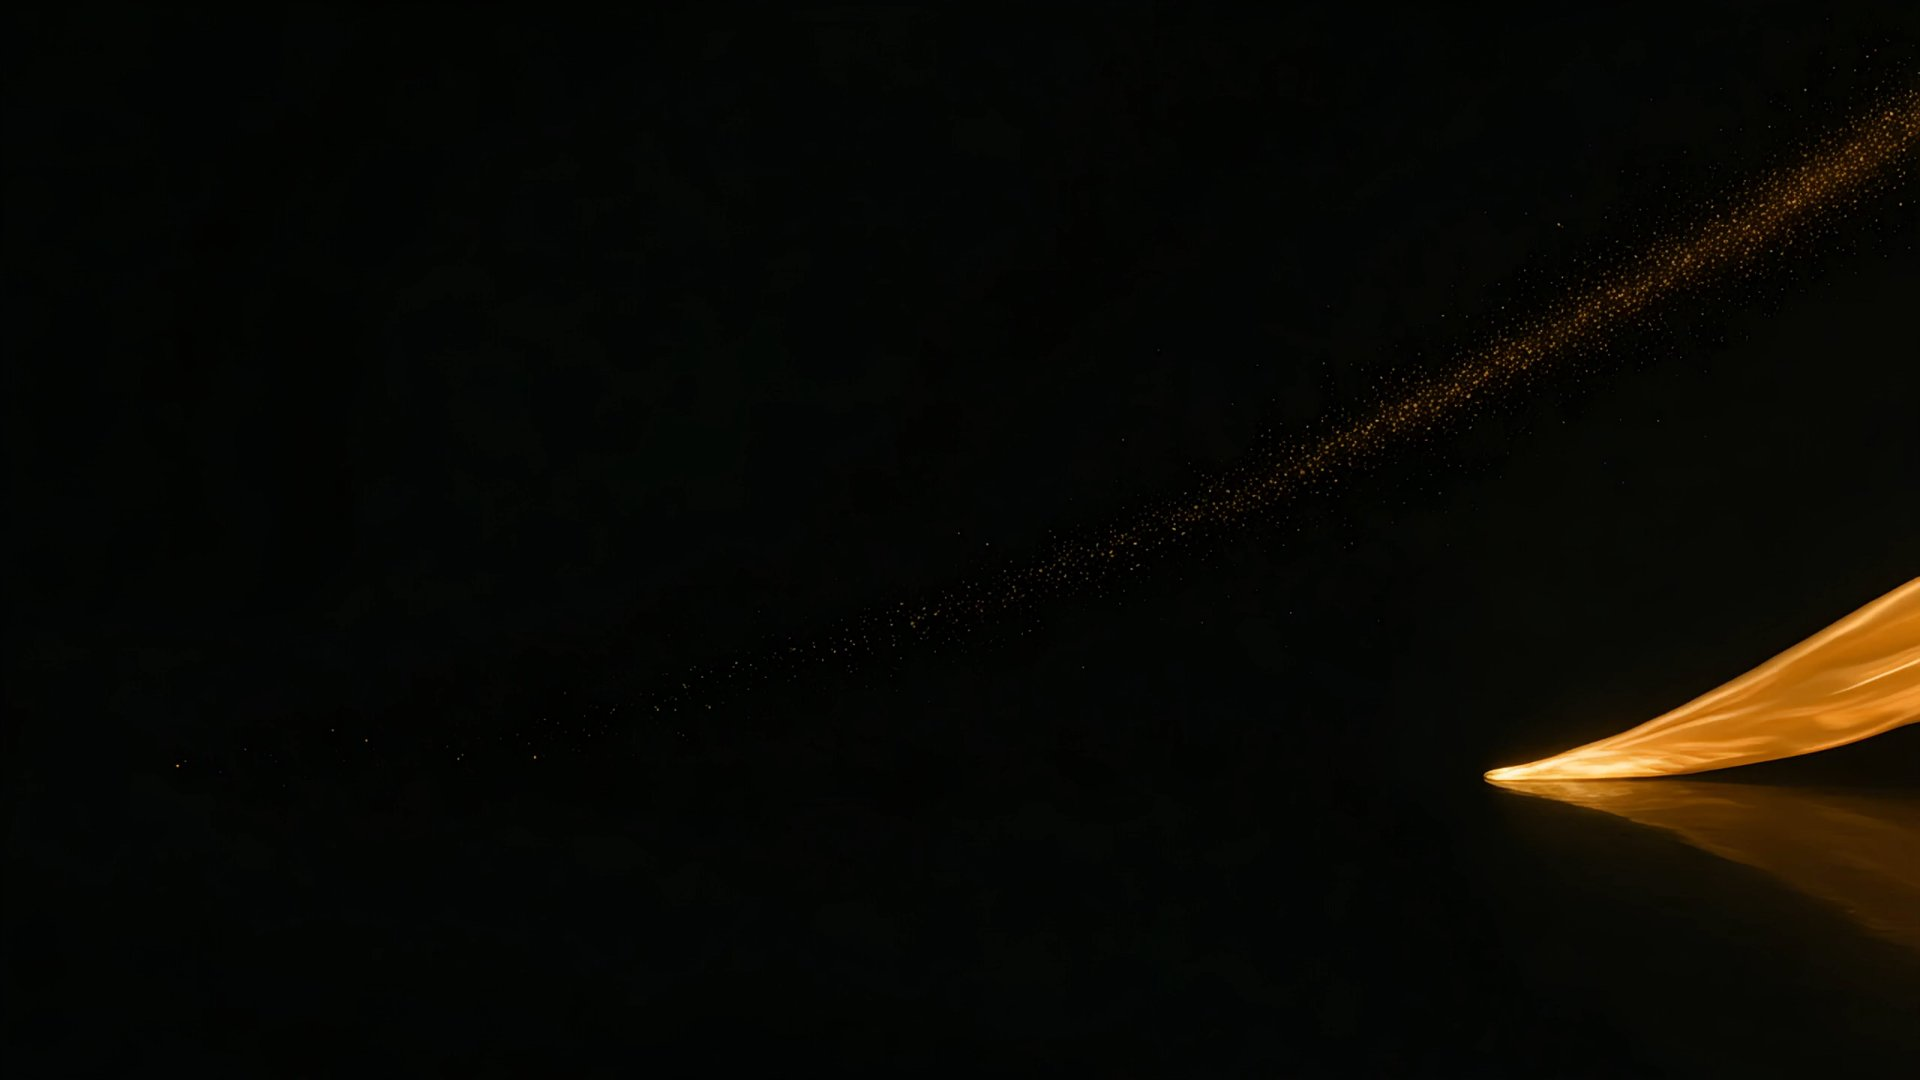
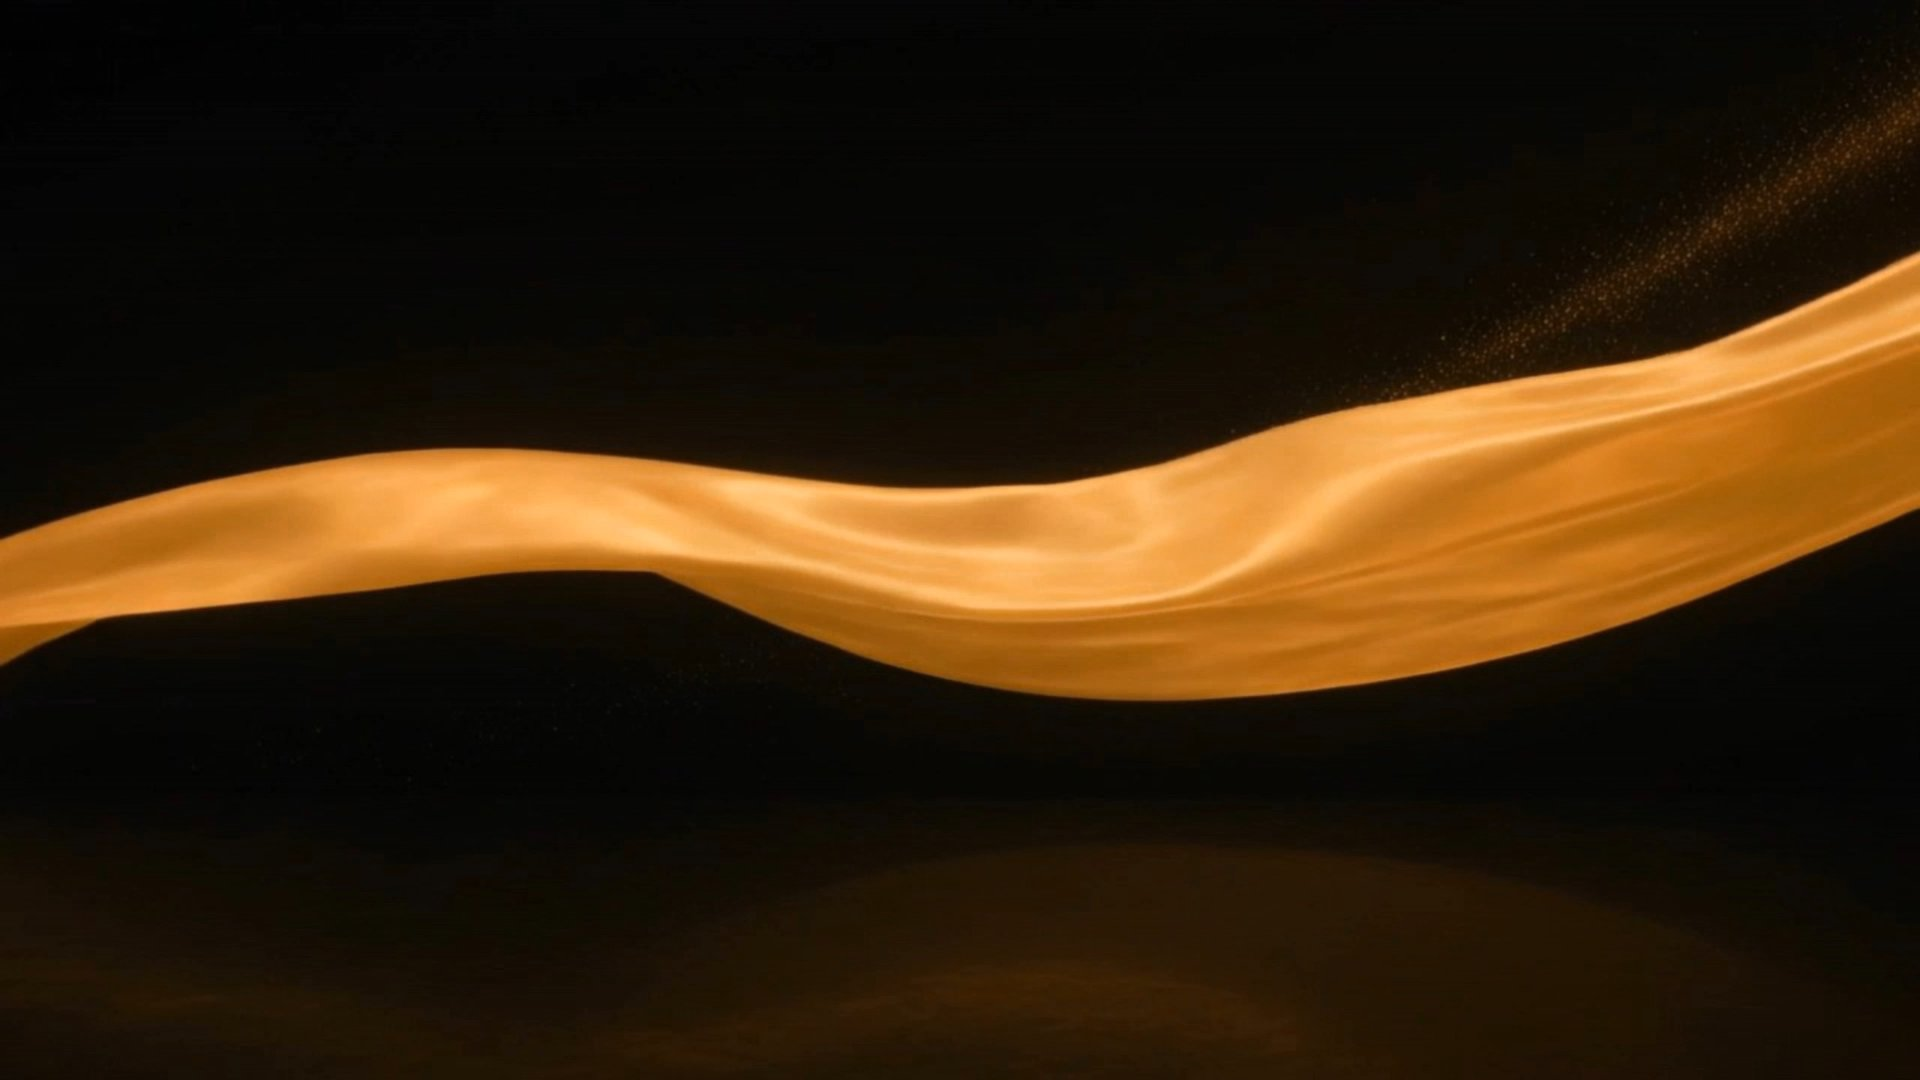
polish(landing): single seamless hero loop, no visible transition (#599)
The intro→loop crossfade was the source of the shimmer: two clips with
divergent motion overlapping for ~1s read as ghosting. Since the loop was
already built with matched start/end frames (Kling start_image =
end_image), its wrap point is invisible on its own — verified ~0.86/255
mean pixel diff between first and last frame. So drop the intro film and
the crossfade entirely and run the single seamless loop: it undulates
full-width forever with no handoff to see. Poster is now the loop's own
frame 0 so first paint matches. Removes hero-wave-intro.mp4.

diff --git a/src/app/landing/_components/landing-view.tsx b/src/app/landing/_components/landing-view.tsx
@@ -150,9 +150,7 @@ function HeroProductShot() {
 
 function Hero() {
   const reduced = useReducedMotion();
-  const heroIntroRef = useRef<HTMLVideoElement>(null);
   const heroLoopRef = useRef<HTMLVideoElement>(null);
-  const [heroPhase, setHeroPhase] = useState<"intro" | "loop">("intro");
   const { scrollY } = useScroll();
   const artY = useTransform(scrollY, [0, 720], [0, 130]);
   const fadeOut = useTransform(scrollY, [0, 600], [1, 0.45]);
@@ -168,12 +166,13 @@ function Hero() {
 
   return (
     <section id="top" className="relative overflow-hidden">
-      {/* Higgsfield-generated molten-gold ribbon in two acts, parallaxed
-          behind the headline: the intro film plays once (the ribbon flows in
-          from the top right), then hands off to a loop whose start/end frames
-          match the intro's final frame (Kling start_image = end_image), so
-          the motion never stops and never hard-resets. Reduced motion gets
-          the poster still. */}
+      {/* Higgsfield-generated molten-gold ribbon, parallaxed behind the
+          headline. A single perfectly seamless loop (Kling start_image =
+          end_image — first and last frames are the same pose, verified
+          ~0.9/255 mean pixel diff), so there is no intro/loop handoff to
+          see: it simply undulates forever. The poster is the loop's own
+          frame 0, so first paint matches and there's no jump when playback
+          begins. Reduced motion keeps the poster still. */}
       <motion.div
         className="pointer-events-none absolute inset-0"
         style={reduced ? undefined : { y: artY, opacity: fadeOut }}
@@ -185,46 +184,18 @@ function Hero() {
           className="h-full w-full object-cover"
         />
         {!reduced && (
-          <>
-            {/* The handoff overlaps rather than cuts: ~1s before the intro
-                ends, the loop starts playing underneath and the intro fades
-                out over that same second. Both show near-identical ribbon
-                poses at the boundary, so the exchange reads as one motion. */}
-            <motion.video
-              ref={heroLoopRef}
-              src="/brand/landing/hero-wave-loop.mp4"
-              muted
-              loop
-              playsInline
-              preload="auto"
-              className="absolute inset-0 h-full w-full object-cover"
-              onViewportEnter={() => {
-                if (heroPhase === "loop") void heroLoopRef.current?.play().catch(() => {});
-              }}
-              onViewportLeave={() => {
-                heroLoopRef.current?.pause();
-                heroIntroRef.current?.pause();
-              }}
-            />
-            <video
-              ref={heroIntroRef}
-              src="/brand/landing/hero-wave-intro.mp4"
-              muted
-              playsInline
-              autoPlay
-              preload="auto"
-              className={`absolute inset-0 h-full w-full object-cover transition-opacity duration-[1100ms] ease-in-out ${
-                heroPhase === "intro" ? "opacity-100" : "opacity-0"
-              }`}
-              onTimeUpdate={(e) => {
-                const v = e.currentTarget;
-                if (heroPhase === "intro" && v.duration && v.currentTime > v.duration - 1.1) {
-                  void heroLoopRef.current?.play().catch(() => {});
-                  setHeroPhase("loop");
-                }
-              }}
-            />
-          </>
+          <motion.video
+            ref={heroLoopRef}
+            src="/brand/landing/hero-wave-loop.mp4"
+            muted
+            loop
+            playsInline
+            autoPlay
+            preload="auto"
+            className="absolute inset-0 h-full w-full object-cover"
+            onViewportEnter={() => void heroLoopRef.current?.play().catch(() => {})}
+            onViewportLeave={() => heroLoopRef.current?.pause()}
+          />
         )}
         <div className="absolute inset-0 bg-gradient-to-b from-[var(--canvas)]/90 via-[var(--canvas)]/30 to-[var(--canvas)]" />
       </motion.div>